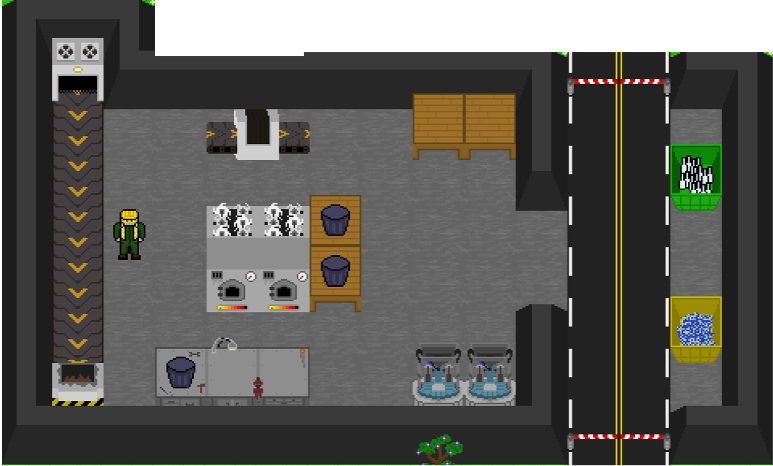
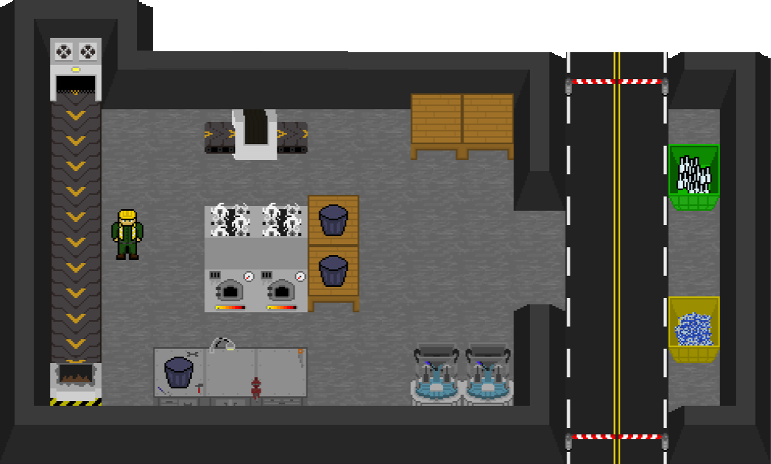
more help + Voltaire

diff --git a/Game.js b/Game.js
@@ -71,43 +71,55 @@ var game = {
 
 				// Aides
 				var pauseHelps = [];
-				pauseHelps.push(this.pauseGroup.create(700, (pauseHelps.length * 80 + 200), 'help'));
+				pauseHelps.push(this.pauseGroup.create(700, (pauseHelps.length * 80 + 110), 'help'));
 				pauseHelps[pauseHelps.length - 1].frame = 5;
 				pauseHelps[pauseHelps.length - 1].scale.setTo(1.4,1.4);
 				pauseHelps[pauseHelps.length - 1].alpha = 0;
-				if(levels[this.id].items.indexOf(itemsId.Metal) != -1){
-					pauseHelps.push(this.pauseGroup.create(700, (pauseHelps.length * 80 + 200), 'help'));
+				if(levels[this.id].items.indexOf(itemsId.Metal) != -1 || levels[this.id].items.indexOf(itemsId.RadMetal) != -1){
+					pauseHelps.push(this.pauseGroup.create(700, (pauseHelps.length * 80 + 110), 'help'));
 					pauseHelps[pauseHelps.length - 1].frame = 0;
-							pauseHelps[pauseHelps.length - 1].scale.setTo(1.4,1.4);
+					pauseHelps[pauseHelps.length - 1].scale.setTo(1.4,1.4);
 					pauseHelps[pauseHelps.length - 1].alpha = 0;
 				}
-				if(levels[this.id].items.indexOf(itemsId.Carton) != -1){
-					pauseHelps.push(this.pauseGroup.create(700, (pauseHelps.length * 80 + 200), 'help'));
+				if(levels[this.id].items.indexOf(itemsId.Carton) != -1 || levels[this.id].items.indexOf(itemsId.RadCarton) != -1){
+					pauseHelps.push(this.pauseGroup.create(700, (pauseHelps.length * 80 + 110), 'help'));
 					pauseHelps[pauseHelps.length - 1].frame = 1;
-							pauseHelps[pauseHelps.length - 1].scale.setTo(1.4,1.4);
+					pauseHelps[pauseHelps.length - 1].scale.setTo(1.4,1.4);
 					pauseHelps[pauseHelps.length - 1].alpha = 0;
 				}
-				if(levels[this.id].items.indexOf(itemsId.Pneu) != -1){
-					pauseHelps.push(this.pauseGroup.create(700, (pauseHelps.length * 80 + 200), 'help'));
+				if(levels[this.id].items.indexOf(itemsId.Pneu) != -1 || levels[this.id].items.indexOf(itemsId.RadPneu) != -1){
+					pauseHelps.push(this.pauseGroup.create(700, (pauseHelps.length * 80 + 110), 'help'));
 					pauseHelps[pauseHelps.length - 1].frame = 2;
-							pauseHelps[pauseHelps.length - 1].scale.setTo(1.4,1.4);
+					pauseHelps[pauseHelps.length - 1].scale.setTo(1.4,1.4);
 					pauseHelps[pauseHelps.length - 1].alpha = 0;
 				}
-				if(levels[this.id].items.indexOf(itemsId.Plastique) != -1){
-					pauseHelps.push(this.pauseGroup.create(700, (pauseHelps.length * 80 + 200), 'help'));
+				if(levels[this.id].items.indexOf(itemsId.Plastique) != -1 || levels[this.id].items.indexOf(itemsId.RadPlastique) != -1){
+					pauseHelps.push(this.pauseGroup.create(700, (pauseHelps.length * 80 + 110), 'help'));
 					pauseHelps[pauseHelps.length - 1].frame = 3;
-							pauseHelps[pauseHelps.length - 1].scale.setTo(1.4,1.4);
+					pauseHelps[pauseHelps.length - 1].scale.setTo(1.4,1.4);
 					pauseHelps[pauseHelps.length - 1].alpha = 0;
 				}
-				if(levels[this.id].items.indexOf(itemsId.Verre) != -1){
-					pauseHelps.push(this.pauseGroup.create(700, (pauseHelps.length * 80 + 200), 'help'));
+				if(levels[this.id].items.indexOf(itemsId.Verre) != -1 || levels[this.id].items.indexOf(itemsId.RadVerre) != -1){
+					pauseHelps.push(this.pauseGroup.create(700, (pauseHelps.length * 80 + 110), 'help'));
 					pauseHelps[pauseHelps.length - 1].frame = 4;
-							pauseHelps[pauseHelps.length - 1].scale.setTo(1.4,1.4);
+					pauseHelps[pauseHelps.length - 1].scale.setTo(1.4,1.4);
+					pauseHelps[pauseHelps.length - 1].alpha = 0;
+				}
+				if(levels[this.id].items.indexOf(itemsId.Poubelle) != -1 || levels[this.id].items.indexOf(itemsId.RadPoubelle) != -1){
+					pauseHelps.push(this.pauseGroup.create(700, (pauseHelps.length * 80 + 110), 'help'));
+					pauseHelps[pauseHelps.length - 1].frame = 6;
+					pauseHelps[pauseHelps.length - 1].scale.setTo(1.4,1.4);
+					pauseHelps[pauseHelps.length - 1].alpha = 0;
+				}
+				if(levels[this.id].items.indexOf(itemsId.RadPoubelle) != -1 || levels[this.id].items.indexOf(itemsId.RadCarton) != -1 || levels[this.id].items.indexOf(itemsId.RadVerre) != -1 || levels[this.id].items.indexOf(itemsId.RadPlastique) != -1 || levels[this.id].items.indexOf(itemsId.RadPneu) != -1 || levels[this.id].items.indexOf(itemsId.RadMetal) != -1){
+					pauseHelps.push(this.pauseGroup.create(700, (pauseHelps.length * 80 + 110), 'help'));
+					pauseHelps[pauseHelps.length - 1].frame = 7;
+					pauseHelps[pauseHelps.length - 1].scale.setTo(1.4,1.4);
 					pauseHelps[pauseHelps.length - 1].alpha = 0;
 				}
 
 				// Boutons
-				let pauseHelpb = game.add.button(900, 100, 'helpbutton', () => {
+				let pauseHelpb = game.add.button(900, 50, 'helpbutton', () => {
 					// Affiche / enleve les aides
 					for(let i = 0; i < pauseHelps.length; i++){
 						pauseHelps[i].alpha = (pauseHelps[i].alpha + 1) % 2;

diff --git a/data.js b/data.js
@@ -273,9 +273,8 @@ var levels = [
   {
     matrice: [
       [-1,-1,-1,-1,-1,-1,-1,-1,-1,-1,-1,-1,-1,-1,-1,-1,-1,-1,-1,-1,-1],
-      [-1,-1,-1,-1,-1,-1,-1,-1,-1,-1,-1,-1,-1,-1,-1,-1,-1,-1,-1,-1,-1],
       [-1,-1, 3, 3, 3, 3, 3, 3, 3, 3, 3, 3, 3, 3, 3, 3, 3, 3, 3,-1,-1],
-      [-1,-1, 3,15, 0, 3,30,30,30, 3,25, 0, 0, 0, 9, 9, 2, 2, 3,-1,-1],
+      [-1,-1, 3,15, 0, 3,30,30,30, 3,25,25, 0, 0, 9, 9, 2, 2, 3,-1,-1],
       [-1,-1, 3,11, 0, 3,28,28,28, 3, 0, 0, 0, 0, 0, 0, 0, 0, 3,-1,-1],
       [-1,-1, 3,11, 0, 3,29,31, 3, 3, 0, 6, 0, 0, 1, 1, 0, 0, 3,-1,-1],
       [-1,-1, 3,11, 0, 0, 0, 0,32, 0, 0, 6, 0, 0, 0, 0, 0, 0, 3,-1,-1],
@@ -284,6 +283,7 @@ var levels = [
       [-1,-1, 3,11, 0, 0, 0, 0, 0, 0, 0, 0, 0, 0, 0, 0, 0, 0, 3,-1,-1],
       [-1,-1, 3,12,12,12,14, 0, 2, 0,27,17,19,20, 0, 0, 8, 8, 3,-1,-1],
       [-1,-1, 3, 3, 3, 3, 3, 3, 3, 3, 3, 3, 3, 3, 3, 3, 3, 3, 3,-1,-1],
+      [-1,-1,-1,-1,-1,-1,-1,-1,-1,-1,-1,-1,-1,-1,-1,-1,-1,-1,-1,-1,-1]
     ],
     items: [itemsId.RadPneu,itemsId.RadCarton,itemsId.RadMetal],
     itemsTime: 15000,
@@ -292,17 +292,18 @@ var levels = [
     chrono: 360,
     score : 50,//score pour un joueur
     pollution : 0,
-    spawnpoints: [[4,3],[4,4],[4,5],[4,6]],
-    seauSpawnpoints: [[15,8],[16,3]],
-    imagePath: "assets/miniMap/level1.PNG",
+    spawnpoints: [[4,2],[12,2],[4,8],[17,8]],
+    seauSpawnpoints: [[15,7],[16,2]],
+    imagePath: "assets/miniMap/level8.png",
     name: "Tutoriel 8",
-    tutoText:["Alors voici un cas exeptionel. Ici les dechet sont radioactif",
-    "Il faut poser les objets radioactif sur les table blanche dans la salle de decontamination. Ensuite appuyer sur la commande de lancement",
-    "Ne rester pas dans le sas ce n est pas tres bon pour la santé",
-    "La decontamination créée des dechets radioactifs qu'il faut deposer sur un palette puis qui seront enterrés "
+    tutoText:[
+	"Mince, nous sommes confrontés à un cas exeptionel! Suite à une fuite dans une centrale nucléaire, nous devons empêcher la propagation de la radioactivité en nettoyant les détritus.",
+    "Pour ce faire, nous devons poser les objets radioactifs sur les tables blanches dans la chambre de décontamination. Vous pourrez ensuite actionner le bouton en face de celle-ci pour lancer le processus.#7#",
+    "Ne restez pas dans la chambre, les produits utilisés pour nettoyer les objets ne sont pas bons pour votre santé.#7#",
+    "Malheureusement, ce système génère des dechets radioactifs. Déposez-les sur une palette ainsi nous pourrons les stocker plus tard dans des zones prévues à cet effet.#7#"
     ],
     tutoGuys : [1,0,0,0],
-    tips : 'Au final, ce que vous venez de recycler servira de combustible pour des entreprises, pour entretenir les terrains de foot synthétiques ou, le broyat une fois fondu, peut servir de revêtement sur les terrains de jeu pour enfants.'
+    tips : 'Nous ne pouvons pas encore recycler nos déchets nucléaires. Il nous faut encore attendre pour que nous puissions y arriver plus tard, pour l\'instant nous les conservons sous terre à l\'abri de toute propagation.'
   },{
     matrice: [
       [-1,-1,-1,-1,-1,-1,-1,-1,-1,-1,-1,-1,-1,-1,-1,-1,-1,-1,-1,-1,-1],

diff --git a/machine/Benne.js b/machine/Benne.js
@@ -126,7 +126,6 @@ Benne.prototype.drop=function(itemId){
 			case 'nucleaire':
 			if(itemId == itemsId.Nucleaire){
 				this.weight += 1;
-				this.addscore(0);
 				return 0;
 			}
 			break;
